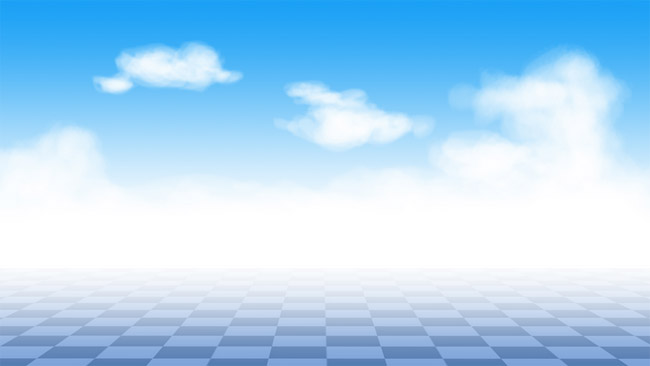
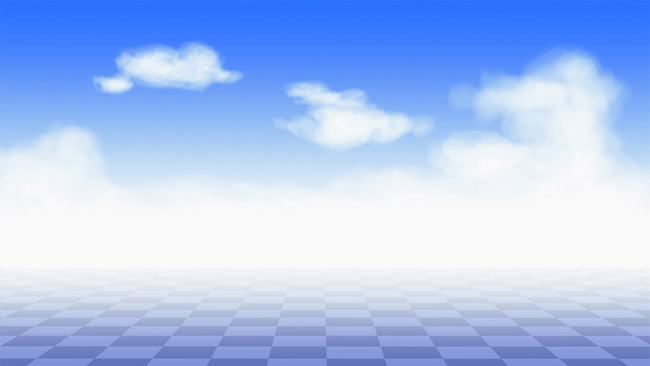
暂存

Changed region(s): [[0.0, 0.0, 1.0, 0.3306]]

diff --git a/main.html b/main.html
@@ -10,10 +10,10 @@
 
 <body>
   <div class="container-fluid"  style="position: absolute; margin-top: 20px;height: 97%;width: 99%; background: url(img/bgm.png);
-  background-repeat: no-repeat;background-size: 100%;">
+  background-repeat: no-repeat;background-size: 100% 100%;">
     <div class="row">
-      <div style="text-align: center;height: 400px;line-height: 400px;">
-        <span style="font-weight: bolder;font-size: 24px;">欢迎登陆中飞芯电管理软件 WEB网管</span>
+      <div style="text-align: center;height: 600px;line-height: 600px;">
+        <span style="font-weight: bolder;font-size: 40px;">欢迎登陆中飞芯电管理软件 WEB网管</span>
       </div>
     </div>
   </div>
